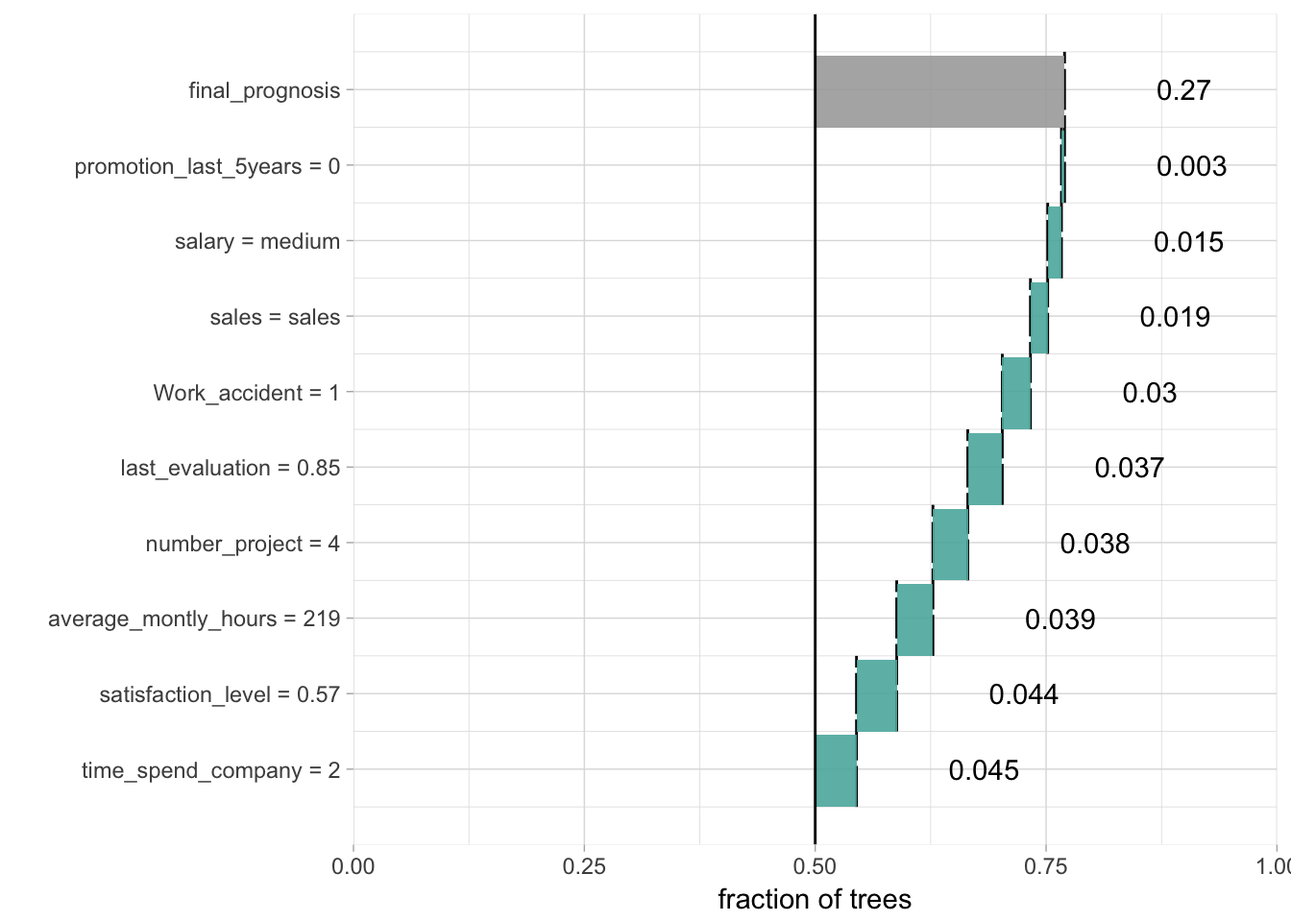
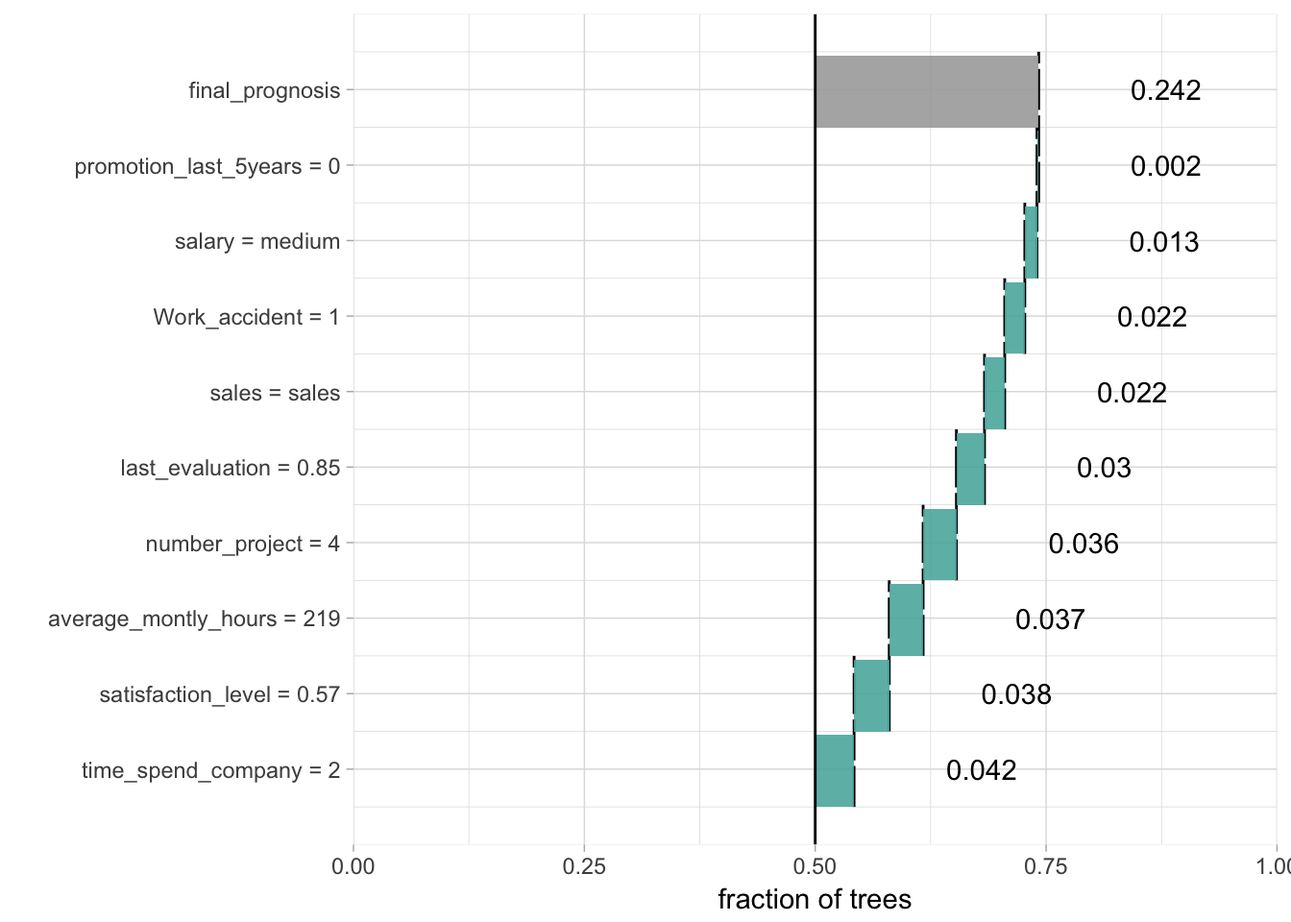
updated vignette for glm

diff --git a/docs/articles/break_ranger.html b/docs/articles/break_ranger.html
@@ -76,7 +76,7 @@
       <h1>breakDown plots for the ranger model</h1>
                         <h4 class="author">Przemyslaw Biecek</h4>
             
-            <h4 class="date">2018-01-02</h4>
+            <h4 class="date">2018-02-15</h4>
           </div>
 
     
@@ -101,11 +101,11 @@ model &lt;-<span class="st"> </span><span class="kw"><a href="http://www.rdocume
 <p>Variable importance for all trees in the forest.</p>
 <div class="sourceCode"><pre class="sourceCode r"><code class="sourceCode r"><span class="kw"><a href="http://www.rdocumentation.org/packages/ranger/topics/importance.ranger">importance</a></span>(model)
 <span class="co">#&gt;    satisfaction_level       last_evaluation        number_project </span>
-<span class="co">#&gt;           1833.409055            616.910745            935.699387 </span>
+<span class="co">#&gt;           1862.552987            591.466175            940.909418 </span>
 <span class="co">#&gt;  average_montly_hours    time_spend_company         Work_accident </span>
-<span class="co">#&gt;            755.414201            989.271500             28.037134 </span>
+<span class="co">#&gt;            744.932477            991.063252             28.709094 </span>
 <span class="co">#&gt; promotion_last_5years                 sales                salary </span>
-<span class="co">#&gt;              4.997529             42.910538             30.136999</span></code></pre></div>
+<span class="co">#&gt;              4.295747             41.451188             29.099739</span></code></pre></div>
 <p>But how to understand which factors drive predictions for a single observation?</p>
 <p>With the <code>breakDown</code> package!</p>
 <p>Explanations for the trees votings.</p>
@@ -113,16 +113,16 @@ model &lt;-<span class="st"> </span><span class="kw"><a href="http://www.rdocume
 explain_<span class="dv">1</span> &lt;-<span class="st"> </span><span class="kw"><a href="../reference/broken.html">broken</a></span>(model, HR_data[<span class="dv">1159</span>,])
 explain_<span class="dv">1</span>
 <span class="co">#&gt;                            contribution</span>
-<span class="co">#&gt; time_spend_company = 2            0.045</span>
-<span class="co">#&gt; satisfaction_level = 0.57         0.044</span>
-<span class="co">#&gt; average_montly_hours = 219        0.039</span>
-<span class="co">#&gt; number_project = 4                0.038</span>
-<span class="co">#&gt; last_evaluation = 0.85            0.037</span>
-<span class="co">#&gt; Work_accident = 1                 0.030</span>
-<span class="co">#&gt; sales = sales                     0.019</span>
-<span class="co">#&gt; salary = medium                   0.015</span>
-<span class="co">#&gt; promotion_last_5years = 0         0.003</span>
-<span class="co">#&gt; final_prognosis                   0.270</span>
+<span class="co">#&gt; time_spend_company = 2            0.042</span>
+<span class="co">#&gt; satisfaction_level = 0.57         0.038</span>
+<span class="co">#&gt; average_montly_hours = 219        0.037</span>
+<span class="co">#&gt; number_project = 4                0.036</span>
+<span class="co">#&gt; last_evaluation = 0.85            0.030</span>
+<span class="co">#&gt; sales = sales                     0.022</span>
+<span class="co">#&gt; Work_accident = 1                 0.022</span>
+<span class="co">#&gt; salary = medium                   0.013</span>
+<span class="co">#&gt; promotion_last_5years = 0         0.002</span>
+<span class="co">#&gt; final_prognosis                   0.242</span>
 <span class="co">#&gt; baseline:  0.5</span>
 <span class="kw">plot</span>(explain_<span class="dv">1</span>) <span class="op">+</span><span class="st"> </span><span class="kw"><a href="http://www.rdocumentation.org/packages/ggplot2/topics/scale_continuous">scale_y_continuous</a></span>( <span class="dt">limits =</span> <span class="kw">c</span>(<span class="dv">0</span>,<span class="dv">1</span>), <span class="dt">name =</span> <span class="st">"fraction of trees"</span>, <span class="dt">expand =</span> <span class="kw">c</span>(<span class="dv">0</span>,<span class="dv">0</span>))
 <span class="co">#&gt; Scale for 'y' is already present. Adding another scale for 'y', which</span>
@@ -132,16 +132,16 @@ explain_<span class="dv">1</span>
 explain_<span class="dv">1</span> &lt;-<span class="st"> </span><span class="kw"><a href="../reference/broken.html">broken</a></span>(model, HR_data[<span class="dv">10099</span>,])
 explain_<span class="dv">1</span>
 <span class="co">#&gt;                            contribution</span>
-<span class="co">#&gt; satisfaction_level = 0.73        -0.045</span>
-<span class="co">#&gt; time_spend_company = 5           -0.045</span>
-<span class="co">#&gt; last_evaluation = 0.83           -0.045</span>
-<span class="co">#&gt; average_montly_hours = 266       -0.044</span>
-<span class="co">#&gt; number_project = 5               -0.043</span>
-<span class="co">#&gt; salary = low                     -0.025</span>
-<span class="co">#&gt; Work_accident = 0                -0.021</span>
-<span class="co">#&gt; sales = sales                    -0.020</span>
-<span class="co">#&gt; promotion_last_5years = 0        -0.012</span>
-<span class="co">#&gt; final_prognosis                  -0.300</span>
+<span class="co">#&gt; time_spend_company = 5           -0.041</span>
+<span class="co">#&gt; satisfaction_level = 0.73        -0.041</span>
+<span class="co">#&gt; last_evaluation = 0.83           -0.041</span>
+<span class="co">#&gt; average_montly_hours = 266       -0.041</span>
+<span class="co">#&gt; number_project = 5               -0.041</span>
+<span class="co">#&gt; salary = low                     -0.021</span>
+<span class="co">#&gt; Work_accident = 0                -0.017</span>
+<span class="co">#&gt; sales = sales                    -0.016</span>
+<span class="co">#&gt; promotion_last_5years = 0        -0.009</span>
+<span class="co">#&gt; final_prognosis                  -0.268</span>
 <span class="co">#&gt; baseline:  0.5</span>
 <span class="kw">plot</span>(explain_<span class="dv">1</span>) <span class="op">+</span><span class="st"> </span><span class="kw"><a href="http://www.rdocumentation.org/packages/ggplot2/topics/scale_continuous">scale_y_continuous</a></span>( <span class="dt">limits =</span> <span class="kw">c</span>(<span class="dv">0</span>,<span class="dv">1</span>), <span class="dt">name =</span> <span class="st">"fraction of trees"</span>, <span class="dt">expand =</span> <span class="kw">c</span>(<span class="dv">0</span>,<span class="dv">0</span>))
 <span class="co">#&gt; Scale for 'y' is already present. Adding another scale for 'y', which</span>

diff --git a/docs/reference/broken.glm.html b/docs/reference/broken.glm.html
@@ -136,15 +136,16 @@
     
 
     <h2 class="hasAnchor" id="examples"><a class="anchor" href="#examples"></a>Examples</h2>
-    <pre class="examples"><div class='input'><span class='no'>url</span> <span class='kw'>&lt;-</span> <span class='st'>'https://archive.ics.uci.edu/ml/machine-learning-databases/wine-quality/winequality-white.csv'</span>
-<span class='no'>wine</span> <span class='kw'>&lt;-</span> <span class='fu'>read.table</span>(<span class='no'>url</span>, <span class='kw'>header</span> <span class='kw'>=</span> <span class='no'>T</span>, <span class='kw'>sep</span><span class='kw'>=</span><span class='st'>";"</span>)
+    <pre class="examples"><div class='input'><span class='co'># example for wine data</span>
 <span class='no'>wine</span>$<span class='no'>qualityb</span> <span class='kw'>&lt;-</span> <span class='fu'>factor</span>(<span class='no'>wine</span>$<span class='no'>quality</span> <span class='kw'>&gt;</span> <span class='fl'>5.5</span>, <span class='kw'>labels</span> <span class='kw'>=</span> <span class='fu'>c</span>(<span class='st'>"bad"</span>, <span class='st'>"good"</span>))
-<span class='no'>modelg</span> <span class='kw'>&lt;-</span> <span class='fu'>glm</span>(<span class='no'>qualityb</span>~<span class='no'>fixed.acidity</span> + <span class='no'>volatile.acidity</span> + <span class='no'>citric.acid</span> + <span class='no'>residual.sugar</span> + <span class='no'>chlorides</span> + <span class='no'>free.sulfur.dioxide</span> + <span class='no'>total.sulfur.dioxide</span> + <span class='no'>density</span> + <span class='no'>pH</span> + <span class='no'>sulphates</span> + <span class='no'>alcohol</span>,
+<span class='no'>modelg</span> <span class='kw'>&lt;-</span> <span class='fu'>glm</span>(<span class='no'>qualityb</span>~<span class='no'>fixed.acidity</span> + <span class='no'>volatile.acidity</span> + <span class='no'>citric.acid</span> +
+              <span class='no'>residual.sugar</span> + <span class='no'>chlorides</span> + <span class='no'>free.sulfur.dioxide</span> +
+              <span class='no'>total.sulfur.dioxide</span> + <span class='no'>density</span> + <span class='no'>pH</span> + <span class='no'>sulphates</span> + <span class='no'>alcohol</span>,
     <span class='kw'>data</span><span class='kw'>=</span><span class='no'>wine</span>, <span class='kw'>family</span> <span class='kw'>=</span> <span class='st'>"binomial"</span>)
 <span class='no'>new_observation</span> <span class='kw'>&lt;-</span> <span class='no'>wine</span>[<span class='fl'>1</span>,]
 <span class='no'>br</span> <span class='kw'>&lt;-</span> <span class='fu'><a href='broken.html'>broken</a></span>(<span class='no'>modelg</span>, <span class='no'>new_observation</span>)
 <span class='no'>logit</span> <span class='kw'>&lt;-</span> <span class='kw'>function</span>(<span class='no'>x</span>) <span class='fu'>exp</span>(<span class='no'>x</span>)/(<span class='fl'>1</span>+<span class='fu'>exp</span>(<span class='no'>x</span>))
-<span class='fu'>plot</span>(<span class='no'>br</span>, <span class='no'>logit</span>)</div><div class='img'><img src='broken.glm-4.png' alt='' width='700' height='432.632880098887' /></div><div class='input'>
+<span class='fu'>plot</span>(<span class='no'>br</span>, <span class='no'>logit</span>)</div><div class='img'><img src='broken.glm-1.png' alt='' width='700' height='432.632880098887' /></div><div class='input'>
 <span class='co'># example for HR_data</span>
 <span class='no'>model</span> <span class='kw'>&lt;-</span> <span class='fu'>glm</span>(<span class='no'>left</span>~<span class='no'>.</span>, <span class='kw'>data</span> <span class='kw'>=</span> <span class='no'>HR_data</span>, <span class='kw'>family</span> <span class='kw'>=</span> <span class='st'>"binomial"</span>)
 <span class='no'>explain_1</span> <span class='kw'>&lt;-</span> <span class='fu'><a href='broken.html'>broken</a></span>(<span class='no'>model</span>, <span class='no'>HR_data</span>[<span class='fl'>1</span>,])
@@ -160,7 +161,7 @@
 #&gt; promotion_last_5years = 0         0.030
 #&gt; sales = sales                     0.014
 #&gt; final_prognosis                   0.118
-#&gt; baseline:  0 </div><div class='input'><span class='fu'>plot</span>(<span class='no'>explain_1</span>)</div><div class='img'><img src='broken.glm-5.png' alt='' width='700' height='432.632880098887' /></div><div class='input'><span class='fu'>plot</span>(<span class='no'>explain_1</span>, <span class='kw'>trans</span> <span class='kw'>=</span> <span class='kw'>function</span>(<span class='no'>x</span>) <span class='fu'>exp</span>(<span class='no'>x</span>)/(<span class='fl'>1</span>+<span class='fu'>exp</span>(<span class='no'>x</span>)))</div><div class='img'><img src='broken.glm-6.png' alt='' width='700' height='432.632880098887' /></div><div class='input'>
+#&gt; baseline:  0 </div><div class='input'><span class='fu'>plot</span>(<span class='no'>explain_1</span>)</div><div class='img'><img src='broken.glm-2.png' alt='' width='700' height='432.632880098887' /></div><div class='input'><span class='fu'>plot</span>(<span class='no'>explain_1</span>, <span class='kw'>trans</span> <span class='kw'>=</span> <span class='kw'>function</span>(<span class='no'>x</span>) <span class='fu'>exp</span>(<span class='no'>x</span>)/(<span class='fl'>1</span>+<span class='fu'>exp</span>(<span class='no'>x</span>)))</div><div class='img'><img src='broken.glm-3.png' alt='' width='700' height='432.632880098887' /></div><div class='input'>
 </div></pre>
   </div>
   <div class="col-md-3 hidden-xs hidden-sm" id="sidebar">

diff --git a/docs/reference/wine.html b/docs/reference/wine.html
@@ -6,7 +6,7 @@
 <meta http-equiv="X-UA-Compatible" content="IE=edge">
 <meta name="viewport" content="width=device-width, initial-scale=1.0">
 
-<title>Create the broken object for lm models — broken.lm • breakDown</title>
+<title>White Wine Quality Data — wine • breakDown</title>
 
 <!-- jquery -->
 <script src="https://code.jquery.com/jquery-3.1.0.min.js" integrity="sha384-nrOSfDHtoPMzJHjVTdCopGqIqeYETSXhZDFyniQ8ZHcVy08QesyHcnOUpMpqnmWq" crossorigin="anonymous"></script>
@@ -99,62 +99,55 @@
       <div class="row">
   <div class="col-md-9 contents">
     <div class="page-header">
-    <h1>Create the broken object for lm models</h1>
+    <h1>White Wine Quality Data</h1>
     </div>
 
     
-    <p>Create the broken object for lm models</p>
+    <p>White wine quality data related to variants of the Portuguese "Vinho Verde" wine.
+For more details, consult: http://www.vinhoverde.pt/en/ or the reference Cortez et al., 2009.</p>
     
 
-    <pre class="usage"><span class='co'># S3 method for lm</span>
-<span class='fu'><a href='broken.html'>broken</a></span>(<span class='no'>model</span>, <span class='no'>new_observation</span>, <span class='no'>...</span>, <span class='kw'>baseline</span> <span class='kw'>=</span> <span class='fl'>0</span>)</pre>
-    
-    <h2 class="hasAnchor" id="arguments"><a class="anchor" href="#arguments"></a> Arguments</h2>
-    <table class="ref-arguments">
-    <colgroup><col class="name" /><col class="desc" /></colgroup>
-    <tr>
-      <th>model</th>
-      <td><p>a lm model</p></td>
-    </tr>
-    <tr>
-      <th>new_observation</th>
-      <td><p>a new observation with collumns that corresponds to variables used in the model</p></td>
-    </tr>
-    <tr>
-      <th>...</th>
-      <td><p>other parameters</p></td>
-    </tr>
-    <tr>
-      <th>baseline</th>
-      <td><p>the orgin/baseline for the breakDown plots, where the rectangles start. It may be a number or a character "Intercept". In the latter case the orgin will be set to model intercept.</p></td>
-    </tr>
-    </table>
-    
-    <h2 class="hasAnchor" id="value"><a class="anchor" href="#value"></a>Value</h2>
+        
+    <h2 class="hasAnchor" id="format"><a class="anchor" href="#format"></a>Format</h2>
 
-    <p>an object of the broken class</p>
+    <p>A data frame with 4898 rows and 12 variables</p>
+    
+    <h2 class="hasAnchor" id="source"><a class="anchor" href="#source"></a>Source</h2>
+
+    <p>P. Cortez, A. Cerdeira, F. Almeida, T. Matos and J. Reis.
+Modeling wine preferences by data mining from physicochemical properties.
+In Decision Support Systems, Elsevier, 47(4):547-553. ISSN: 0167-9236.</p>
+    
+    <h2 class="hasAnchor" id="details"><a class="anchor" href="#details"></a>Details</h2>
+
+    <p>A dataset downloaded from UCI Machine Learning Database
+https://archive.ics.uci.edu/ml/machine-learning-databases/wine-quality/winequality-white.cs</p><ul>
+<li><p>fixed.acidity</p></li>
+<li><p>volatile.acidity</p></li>
+<li><p>citric.acid</p></li>
+<li><p>residual.sugar</p></li>
+<li><p>chlorides</p></li>
+<li><p>free.sulfur.dioxide</p></li>
+<li><p>total.sulfur.dioxide</p></li>
+<li><p>density</p></li>
+<li><p>pH</p></li>
+<li><p>sulphates</p></li>
+<li><p>alcohol</p></li>
+<li><p>quality</p></li>
+</ul>
     
 
-    <h2 class="hasAnchor" id="examples"><a class="anchor" href="#examples"></a>Examples</h2>
-    <pre class="examples"><div class='input'><span class='no'>model</span> <span class='kw'>&lt;-</span> <span class='fu'>lm</span>(<span class='no'>Sepal.Length</span>~<span class='no'>.</span>, <span class='kw'>data</span><span class='kw'>=</span><span class='no'>iris</span>)
-<span class='no'>new_observation</span> <span class='kw'>&lt;-</span> <span class='no'>iris</span>[<span class='fl'>1</span>,]
-<span class='no'>br</span> <span class='kw'>&lt;-</span> <span class='fu'><a href='broken.html'>broken</a></span>(<span class='no'>model</span>, <span class='no'>new_observation</span>)
-<span class='fu'>plot</span>(<span class='no'>br</span>)</div><div class='img'><img src='broken.lm-1.png' alt='' width='700' height='432.632880098887' /></div><div class='input'>
-<span class='co'># works for interactions as well</span>
-<span class='no'>model</span> <span class='kw'>&lt;-</span> <span class='fu'>lm</span>(<span class='no'>Sepal.Length</span> ~ <span class='no'>Petal.Width</span>*<span class='no'>Species</span>, <span class='kw'>data</span> <span class='kw'>=</span> <span class='no'>iris</span>)
-<span class='no'>new_observation</span> <span class='kw'>&lt;-</span> <span class='no'>iris</span>[<span class='fl'>1</span>,]
-<span class='no'>br</span> <span class='kw'>&lt;-</span> <span class='fu'><a href='broken.html'>broken</a></span>(<span class='no'>model</span>, <span class='no'>new_observation</span>)
-<span class='fu'>plot</span>(<span class='no'>br</span>)</div><div class='img'><img src='broken.lm-2.png' alt='' width='700' height='432.632880098887' /></div></pre>
   </div>
   <div class="col-md-3 hidden-xs hidden-sm" id="sidebar">
     <h2>Contents</h2>
     <ul class="nav nav-pills nav-stacked">
-      <li><a href="#arguments">Arguments</a></li>
       
-      <li><a href="#value">Value</a></li>
-      
-      <li><a href="#examples">Examples</a></li>
-    </ul>
+      <li><a href="#format">Format</a></li>
+
+      <li><a href="#source">Source</a></li>
+
+      <li><a href="#details">Details</a></li>
+          </ul>
 
   </div>
 </div>

diff --git a/docs/reference/broken.ranger.html b/docs/reference/broken.ranger.html
@@ -136,28 +136,19 @@
     
 
     <h2 class="hasAnchor" id="examples"><a class="anchor" href="#examples"></a>Examples</h2>
-    <pre class="examples"><div class='input'><span class='fu'>library</span>(<span class='no'>ranger</span>)
+    <pre class="examples"><span class='co'># NOT RUN {</span>
+<span class='fu'>library</span>(<span class='st'>"ranger"</span>)
+<span class='fu'>library</span>(<span class='st'>"ggplot2"</span>)
 <span class='no'>model</span> <span class='kw'>&lt;-</span> <span class='fu'><a href='http://www.rdocumentation.org/packages/ranger/topics/ranger'>ranger</a></span>(<span class='fu'>factor</span>(<span class='no'>left</span>) ~ <span class='no'>.</span>, <span class='kw'>data</span> <span class='kw'>=</span> <span class='no'>HR_data</span>, <span class='kw'>importance</span> <span class='kw'>=</span> <span class='st'>'impurity'</span>)
-<span class='fu'><a href='http://www.rdocumentation.org/packages/ranger/topics/importance.ranger'>importance</a></span>(<span class='no'>model</span>)</div><div class='output co'>#&gt;    satisfaction_level       last_evaluation        number_project 
-#&gt;           1860.877825            650.583646           1021.324791 
-#&gt;  average_montly_hours    time_spend_company         Work_accident 
-#&gt;            745.926354            989.788175             33.149265 
-#&gt; promotion_last_5years                 sales                salary 
-#&gt;              4.695325             62.792507             41.011149 </div><div class='input'><span class='no'>new_observation</span> <span class='kw'>&lt;-</span> <span class='no'>HR_data</span>[<span class='fl'>10099</span>,]
+<span class='fu'><a href='http://www.rdocumentation.org/packages/ranger/topics/importance.ranger'>importance</a></span>(<span class='no'>model</span>)
+<span class='no'>new_observation</span> <span class='kw'>&lt;-</span> <span class='no'>HR_data</span>[<span class='fl'>10099</span>,]
 <span class='no'>explain_1</span> <span class='kw'>&lt;-</span> <span class='fu'><a href='broken.html'>broken</a></span>(<span class='no'>model</span>, <span class='no'>new_observation</span>)
-<span class='no'>explain_1</span></div><div class='output co'>#&gt;                            contribution
-#&gt; sales = sales                     0.009
-#&gt; average_montly_hours = 266        0.004
-#&gt; salary = low                      0.004
-#&gt; satisfaction_level = 0.73         0.004
-#&gt; last_evaluation = 0.83            0.004
-#&gt; number_project = 5                0.003
-#&gt; time_spend_company = 5            0.003
-#&gt; promotion_last_5years = 0        -0.002
-#&gt; Work_accident = 0                 0.002
-#&gt; final_prognosis                   0.030
-#&gt; baseline:  0.5 </div><div class='input'><span class='fu'>plot</span>(<span class='no'>explain_1</span>) + <span class='fu'>ggtitle</span>(<span class='st'>"breakDown plot for linear predictors of leaving the company"</span>)+ <span class='fu'>scale_y_continuous</span>( <span class='kw'>limits</span> <span class='kw'>=</span> <span class='fu'>c</span>(<span class='fl'>0</span>,<span class='fl'>1</span>), <span class='kw'>name</span> <span class='kw'>=</span> <span class='st'>"fraction of trees"</span>, <span class='kw'>expand</span> <span class='kw'>=</span> <span class='fu'>c</span>(<span class='fl'>0.1</span>,<span class='fl'>0.1</span>))</div><div class='output co'>#&gt; <span class='message'>Scale for 'y' is already present. Adding another scale for 'y', which will</span>
-#&gt; <span class='message'>replace the existing scale.</span></div><div class='img'><img src='broken.ranger-2.png' alt='' width='700' height='432.632880098887' /></div><div class='input'>
+<span class='no'>explain_1</span>
+<span class='fu'>plot</span>(<span class='no'>explain_1</span>) +
+   <span class='fu'><a href='http://www.rdocumentation.org/packages/ggplot2/topics/labs'>ggtitle</a></span>(<span class='st'>"breakDown plot for linear predictors of leaving the company"</span>) +
+   <span class='fu'><a href='http://www.rdocumentation.org/packages/ggplot2/topics/scale_continuous'>scale_y_continuous</a></span>( <span class='kw'>limits</span> <span class='kw'>=</span> <span class='fu'>c</span>(<span class='fl'>0</span>,<span class='fl'>1</span>), <span class='kw'>name</span> <span class='kw'>=</span> <span class='st'>"fraction of trees"</span>, <span class='kw'>expand</span> <span class='kw'>=</span> <span class='fu'>c</span>(<span class='fl'>0.1</span>,<span class='fl'>0.1</span>))
+
+<span class='co'># }</span><div class='input'>
 </div></pre>
   </div>
   <div class="col-md-3 hidden-xs hidden-sm" id="sidebar">

diff --git a/docs/index.html b/docs/index.html
@@ -5,7 +5,7 @@
 <meta charset="utf-8">
 <meta http-equiv="X-UA-Compatible" content="IE=edge">
 <meta name="viewport" content="width=device-width, initial-scale=1.0">
-<title>BreakDown Plots • breakDown</title>
+<title>Break Down Plots • breakDown</title>
 <!-- jquery --><script src="https://code.jquery.com/jquery-3.1.0.min.js" integrity="sha384-nrOSfDHtoPMzJHjVTdCopGqIqeYETSXhZDFyniQ8ZHcVy08QesyHcnOUpMpqnmWq" crossorigin="anonymous"></script><!-- Bootstrap --><link href="https://maxcdn.bootstrapcdn.com/bootstrap/3.3.7/css/bootstrap.min.css" rel="stylesheet" integrity="sha384-BVYiiSIFeK1dGmJRAkycuHAHRg32OmUcww7on3RYdg4Va+PmSTsz/K68vbdEjh4u" crossorigin="anonymous">
 <script src="https://maxcdn.bootstrapcdn.com/bootstrap/3.3.7/js/bootstrap.min.js" integrity="sha384-Tc5IQib027qvyjSMfHjOMaLkfuWVxZxUPnCJA7l2mCWNIpG9mGCD8wGNIcPD7Txa" crossorigin="anonymous"></script><!-- Font Awesome icons --><link href="https://maxcdn.bootstrapcdn.com/font-awesome/4.6.3/css/font-awesome.min.css" rel="stylesheet" integrity="sha384-T8Gy5hrqNKT+hzMclPo118YTQO6cYprQmhrYwIiQ/3axmI1hQomh7Ud2hPOy8SP1" crossorigin="anonymous">
 <!-- pkgdown --><link href="pkgdown.css" rel="stylesheet">
@@ -143,7 +143,14 @@ plot(br)</code></pre>
 		This package is developed by the <a href="http://mi2.mini.pw.edu.pl">MI^2 group</a>. MI^2 (pronounce: Am I square?) is a group of mathematicians and computer scientists that love to play with data. We create tools, do consulting and share our positive attitude. 
 	 </p>
 	</div>
-    <h2>License</h2>
+    <h2>Links</h2>
+<ul class="list-unstyled">
+<li>Download from CRAN at <br><a href="https://cran.r-project.org/package=breakDown">https://cran.r-project.org/package=breakDown</a>
+</li>
+<li>Report a bug at <br><a href="https://github.com/pbiecek/breakDown/issues">https://github.com/pbiecek/breakDown/issues</a>
+</li>
+</ul>
+<h2>License</h2>
 <p><a href="https://www.r-project.org/Licenses/GPL-2">GPL-2</a></p>
 <h2>Developers</h2>
 <ul class="list-unstyled">

diff --git a/docs/reference/create.broken.html b/docs/reference/create.broken.html
@@ -110,7 +110,20 @@ Internal function</p>
     
 
     <pre class="usage"><span class='fu'>create.broken</span>(<span class='no'>broken_intercept</span>, <span class='kw'>baseline</span> <span class='kw'>=</span> <span class='fl'>0</span>)</pre>
-        
+    
+    <h2 class="hasAnchor" id="arguments"><a class="anchor" href="#arguments"></a> Arguments</h2>
+    <table class="ref-arguments">
+    <colgroup><col class="name" /><col class="desc" /></colgroup>
+    <tr>
+      <th>broken_intercept</th>
+      <td><p>list with variable contributions</p></td>
+    </tr>
+    <tr>
+      <th>baseline</th>
+      <td><p>level on which the baseline line shall be plotted</p></td>
+    </tr>
+    </table>
+    
     <h2 class="hasAnchor" id="value"><a class="anchor" href="#value"></a>Value</h2>
 
     <p>enriched broken class</p>
@@ -120,6 +133,7 @@ Internal function</p>
   <div class="col-md-3 hidden-xs hidden-sm" id="sidebar">
     <h2>Contents</h2>
     <ul class="nav nav-pills nav-stacked">
+      <li><a href="#arguments">Arguments</a></li>
       
       <li><a href="#value">Value</a></li>
           </ul>

diff --git a/docs/reference/index.html b/docs/reference/index.html
@@ -101,7 +101,7 @@
     <div class="page-header">
       <h1>
         Reference
-        <small>version&nbsp;0.1.2</small>
+        <small>version&nbsp;0.1.3</small>
       </h1>
     </div>
 
@@ -169,6 +169,12 @@ Internal function</p></td>
             <p><code><a href="print.broken.html">print</a></code> </p>
           </td>
           <td><p>Break Down Print</p></td>
+        </tr><tr>
+          <!--  -->
+          <td>
+            <p><code><a href="wine.html">wine</a></code> </p>
+          </td>
+          <td><p>White Wine Quality Data</p></td>
         </tr>
       </tbody>
       </table>

diff --git a/docs/articles/break_glm.html b/docs/articles/break_glm.html
@@ -76,7 +76,7 @@
       <h1>breakDown plots for the generalised linear model</h1>
                         <h4 class="author">Przemyslaw Biecek</h4>
             
-            <h4 class="date">2018-01-02</h4>
+            <h4 class="date">2018-02-15</h4>
           </div>
 
     

diff --git a/docs/articles/break_lm.html b/docs/articles/break_lm.html
@@ -76,7 +76,7 @@
       <h1>breakDown plots for the linear model</h1>
                         <h4 class="author">Przemyslaw Biecek</h4>
             
-            <h4 class="date">2018-01-02</h4>
+            <h4 class="date">2018-02-15</h4>
           </div>
 
     

diff --git a/docs/articles/index.html b/docs/articles/index.html
@@ -97,7 +97,7 @@
       </header>
 
       <div class="page-header">
-  <h1>Articles <small>version&nbsp;0.1.2</small></h1>
+  <h1>Articles <small>version&nbsp;0.1.3</small></h1>
 </div>
 
 <div class="row">
